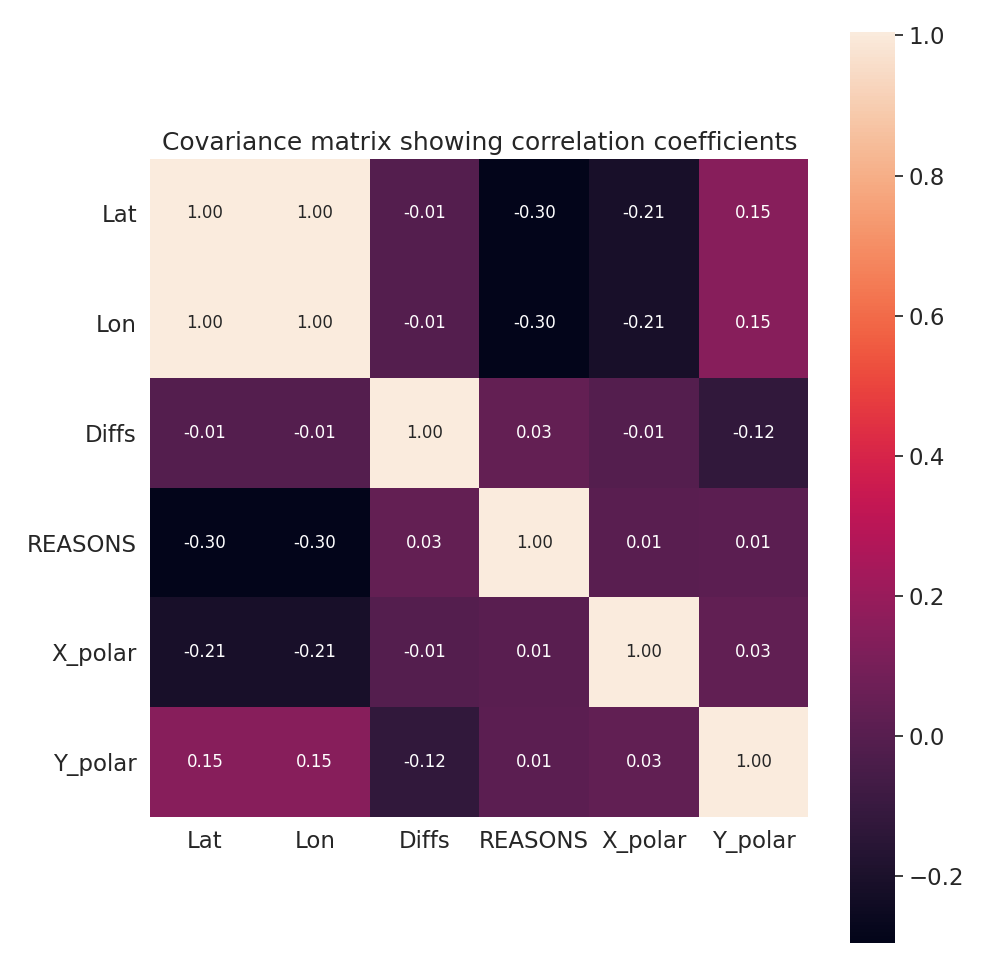
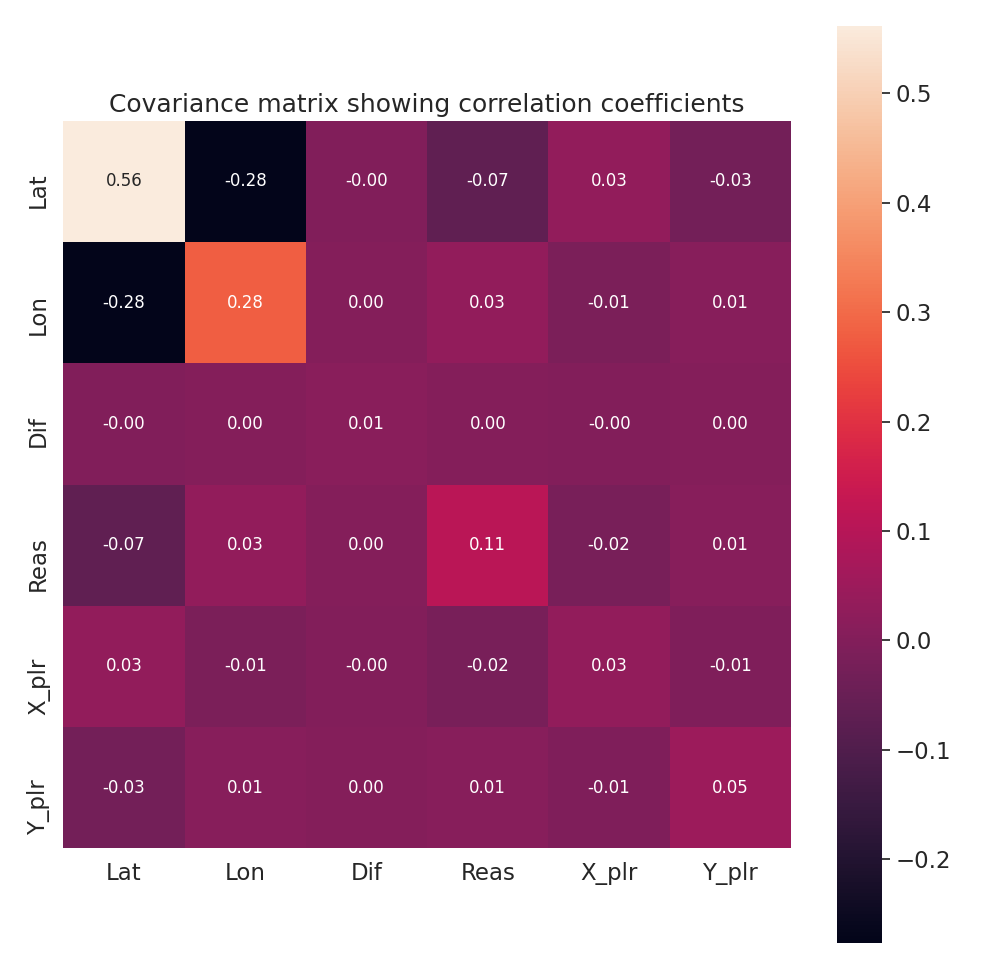
dbscan and update images

diff --git a/src/ML_methods/DB_SCAN/Db_SCAN.py b/src/ML_methods/DB_SCAN/Db_SCAN.py
@@ -3,60 +3,33 @@ from sklearn.cluster import DBSCAN
 from sklearn import metrics
 from sklearn.datasets import make_blobs
 from sklearn.preprocessing import StandardScaler
+import pathlib,sys
 
-# #############################################################################
-# Generate sample data
-centers = [[1, 1], [-1, -1], [1, -1]]
-X, labels_true = make_blobs(n_samples=750, centers=centers, cluster_std=0.4,
-                            random_state=0)
+dirname  = str(pathlib.Path(__file__).parent.absolute())+"/../../"
+sys.path.insert(0, dirname+"Data_representation")
+import Visualize_data
 
-X = StandardScaler().fit_transform(X)
+class DB_SCAN():
+      plot_DBSCAN = Visualize_data.plot_DBSCAN
+      def __init__(self,X,Y):
+            self.X   = X
+            self.X   = np.column_stack((self.X,Y))
+            self.X   = StandardScaler().fit_transform(self.X)
+            # Compute DBSCAN
+            self.db = DBSCAN(eps=0.6, min_samples=13,algorithm='kd_tree').fit(self.X)
 
-# #############################################################################
-# Compute DBSCAN
-db = DBSCAN(eps=0.3, min_samples=10).fit(X)
-core_samples_mask = np.zeros_like(db.labels_, dtype=bool)
-core_samples_mask[db.core_sample_indices_] = True
-labels = db.labels_
-
-# Number of clusters in labels, ignoring noise if present.
-n_clusters_ = len(set(labels)) - (1 if -1 in labels else 0)
-n_noise_ = list(labels).count(-1)
-
-print('Estimated number of clusters: %d' % n_clusters_)
-print('Estimated number of noise points: %d' % n_noise_)
-print("Homogeneity: %0.3f" % metrics.homogeneity_score(labels_true, labels))
-print("Completeness: %0.3f" % metrics.completeness_score(labels_true, labels))
-print("V-measure: %0.3f" % metrics.v_measure_score(labels_true, labels))
-print("Adjusted Rand Index: %0.3f"
-      % metrics.adjusted_rand_score(labels_true, labels))
-print("Adjusted Mutual Information: %0.3f"
-      % metrics.adjusted_mutual_info_score(labels_true, labels))
-print("Silhouette Coefficient: %0.3f"
-      % metrics.silhouette_score(X, labels))
-
-# #############################################################################
-# Plot result
-import matplotlib.pyplot as plt
-
-# Black removed and is used for noise instead.
-unique_labels = set(labels)
-colors = [plt.cm.Spectral(each)
-          for each in np.linspace(0, 1, len(unique_labels))]
-for k, col in zip(unique_labels, colors):
-    if k == -1:
-        # Black used for noise.
-        col = [0, 0, 0, 1]
-
-    class_member_mask = (labels == k)
-
-    xy = X[class_member_mask & core_samples_mask]
-    plt.plot(xy[:, 0], xy[:, 1], 'o', markerfacecolor=tuple(col),
-             markeredgecolor='k', markersize=14)
-
-    xy = X[class_member_mask & ~core_samples_mask]
-    plt.plot(xy[:, 0], xy[:, 1], 'o', markerfacecolor=tuple(col),
-             markeredgecolor='k', markersize=6)
-
-plt.title('Estimated number of clusters: %d' % n_clusters_)
-plt.show()
+            self.core_samples_mask = np.zeros_like(self.db.labels_, dtype=bool)
+            self.core_samples_mask[self.db.core_sample_indices_] = True
+            self.labels = self.db.labels_
+            # Number of clusters in labels, ignoring noise if present.
+            self.n_clusters_ = len(set( self.labels)) - (1 if -1 in  self.labels else 0)
+            self.n_noise_    = list( self.labels).count(-1)
+            print('Estimated number of clusters: %d' % self.n_clusters_)
+            print('Estimated number of noise points: %d' % self.n_noise_)
+            
+      def Test_DBSCAN(self,X,Y):
+            self.X   = X
+            self.X   = np.column_stack((self.X,Y))
+            self.X   = StandardScaler().fit_transform(self.X)
+            test     = self.db.fit_predict(self.X)
+            print(test)

diff --git a/src/Data_representation/Features_generator.py b/src/Data_representation/Features_generator.py
@@ -1,7 +1,8 @@
 import numpy as np
 import math
+import pandas as pd
 import compas
-
+from scipy.stats import norm
 class Feature_Generator():
     def __init__(self):
         self.diffs = None
@@ -12,11 +13,7 @@ class Feature_Generator():
         self.X_polar = None
         self.Y_polar = None
 
-    # explicit function to normalize array
-    def normalize_2d(self,matrix):
-        norm = (matrix-np.max(matrix))/(np.max(matrix)-np.min(matrix))
-        norm = np.absolute(norm)
-        return norm
+        self.wfd     = None
 
     def normalize_1d(self,arr,t_min=0,t_max=1):
         arr = arr.astype('float64')
@@ -48,3 +45,47 @@ class Feature_Generator():
         self.speed   = self.normalize_1d(self.speed)
         self.X_polar = self.speed*np.cos(self.wind)
         self.Y_polar = self.speed*np.sin(self.wind)
+
+    def Generate_weight_freq_domain(self,df):
+        import datetime
+        import time
+        time_diffs_size   = len(df.TIME)
+        samples_time_diff = np.zeros(time_diffs_size)
+        self.wfd          = np.zeros(time_diffs_size)
+
+        for i in range(1,time_diffs_size):
+            dt_i = datetime.datetime.strptime(df.TIME[i-1], "%m/%d/%Y %H:%M:%S %p")
+            posix_dt_i = time.mktime(dt_i.timetuple())
+
+            dt_f = datetime.datetime.strptime(df.TIME[i], "%m/%d/%Y %H:%M:%S %p")
+            posix_dt_f = time.mktime(dt_f.timetuple())
+
+            diff = posix_dt_f-posix_dt_i
+            samples_time_diff[i] = diff
+        
+        #samples_time_diff = self.normalize_1d(samples_time_diff)
+
+        avg_sample_rate = np.max(samples_time_diff)
+        self.Generate_diffs(df)
+       
+        #avg and std model
+        mu, std = norm.fit(self.diffs)
+
+        #fit PDF curve
+        xmin, xmax = mu-4*std,mu+4*std
+        x = np.linspace(xmin, xmax, len(self.diffs))
+        normal_dist = norm.pdf(x, mu, std)
+        diff_threshold = x[(len(self.diffs)*90)//100]
+
+        for i in range(0,len(samples_time_diff)-1):
+            reason = df['REASONS'][i]
+
+            if(self.diffs[i] <= diff_threshold and reason!=7): # reason 7 = device is on
+                self.wfd[i]   =  samples_time_diff[i]/avg_sample_rate
+            else:
+                self.wfd[i] = 1
+
+        import matplotlib.pyplot as plt
+        xi = list(range(len(self.wfd)))
+        plt.plot(xi,self.wfd, 'b') # Draw blue line
+        plt.show()

diff --git a/src/main.py b/src/main.py
@@ -4,24 +4,32 @@ import os
 import pathlib
 dirname  = str(pathlib.Path(__file__).parent.absolute()) +"/GPS_data"
 sys.path.insert(1, dirname)
-from GPS_data import *
-
+import GPS_data
+from params import *
 
 def main():
     if not os.path.exists(FILTERED_FILE):
-        set = GPS_Noise_removal()
+        set = GPS_data.GPS_Noise_removal()
         for n in set.all_ids:
             set.filter_ID(n) # end data is not used
             set.densisty_coord()   # save data with low variance 
     
-    set = Data_set_reader()
+    set = GPS_data.Data_set_reader()
     set.filter_one_sample(153,0)
     #set.filter_one_sample(153,1)
-    #set.append_frame(115,0)
+    set.append_frame(115,0)
     #set.append_frame(115,1)
-    #set.append_frame(78,0)
+    set.append_frame(78,0)
     #set.append_frame(78,1)
-    #set.PCA_analysis()
+    set.PCA_analysis()
+    set.DBSCAN_analysis(set.PCA.mat_reduced[:,0],set.PCA.mat_reduced[:,1])
+    #other_set = Data_set_reader()
+    #other_set.filter_one_sample(153,1)
+    #other_set.PCA_analysis()
+    #set.DBSCAN.Test_DBSCAN(other_set.PCA.mat_reduced[:,0],other_set.PCA.mat_reduced[:,1])
+    #lat = set.filter_by_name["LATITUDE"].to_numpy()[1:]
+    #lon = set.filter_by_name["LONGITUDE"].to_numpy()[1:]
+    #set.DBSCAN_analysis(lon,lat)
 
     if("map" in sys.argv):
         set.plot_map()

diff --git a/src/Data_representation/Visualize_data.py b/src/Data_representation/Visualize_data.py
@@ -61,3 +61,27 @@ def plot_Reason(self,begin=0,end=2000):
     title = "Fit results: avg = %.5f,  std = %.5f" % (mu, std)
     plt.title(title)
     plt.show()
+
+def plot_DBSCAN(self):
+    # Black removed and is used for noise instead.
+    unique_labels = set(self.labels)
+    colors = [plt.cm.Spectral(each)
+            for each in np.linspace(0, 1, len(unique_labels))]
+    for k, col in zip(unique_labels, colors):
+        if k == -1:
+            # Black used for noise.
+            col = [0, 0, 0, 1]
+
+        class_member_mask = (self.labels == k)
+
+        xy = self.X[class_member_mask & self.core_samples_mask]
+        plt.plot(xy[:, 0], xy[:, 1], 'o', markerfacecolor=tuple(col),
+                markeredgecolor='k', markersize=14)
+
+        xy = self.X[class_member_mask & ~self.core_samples_mask]
+        plt.plot(xy[:, 0], xy[:, 1], 'o', markerfacecolor=tuple(col),
+                markeredgecolor='k', markersize=6)
+
+    plt.title('Estimated number of clusters: %d' % self.n_clusters_)
+    #mplleaflet.show()
+    plt.show()

diff --git a/src/GPS_data/GPS_data.py b/src/GPS_data/GPS_data.py
@@ -15,6 +15,9 @@ from params import *
 sys.path.insert(0, dirname+"ML_methods/PCA")
 import PCA
 
+sys.path.insert(0, dirname+"ML_methods/DB_SCAN")
+import Db_SCAN
+
 sys.path.insert(0, dirname+"Data_representation")
 import Visualize_data
 import outlier_by_gausian
@@ -65,9 +68,14 @@ class GPS_Noise_removal(Data_Set):
 class Data_set_reader(Data_Set):
     PCA_analysis = PCA.PCA_analysis
     def __init__(self):
-        self.PCA   = None
-        self.df    = pd.read_csv(FILTER_DATA)
+        self.PCA    = None
+        self.DBSCAN = None
+        self.df     = pd.read_csv(FILTER_DATA)
     
+    def DBSCAN_analysis(self,X,Y):
+        self.DBSCAN = Db_SCAN.DB_SCAN(X,Y)
+        self.DBSCAN.plot_DBSCAN()
+
     def filter_one_sample(self,ID,batch_ID):
         self.vehicule_id = ID
         self.filter_by_name = self.df[self.df['ASSET'] == ID]

diff --git a/src/ML_methods/PCA/PCA.py b/src/ML_methods/PCA/PCA.py
@@ -1,8 +1,7 @@
 import numpy as np
 import seaborn as sns
 import matplotlib.pyplot as plt
-import sys
-import pathlib
+import sys, pathlib
 
 dirname  = str(pathlib.Path(__file__).parent.absolute())+"/../../"
 sys.path.insert(0, dirname)
@@ -31,7 +30,6 @@ class PCA():
         return x / total
 
     def do_PCA(self,num_components):
-        #X = np.random.randint(10,50,100).reshape(20,5)
         #Subtract the mean of each variable
         X_meaned = self.input_data - np.mean(self.input_data , axis = 0)
 
